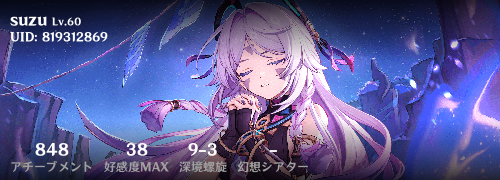
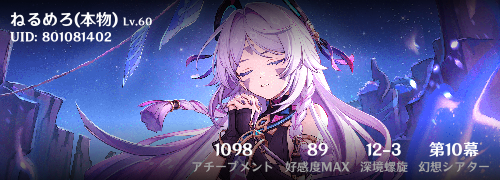
✨ 項目のalign機能と言語追加

diff --git a/api/img.py b/api/img.py
@@ -67,35 +67,57 @@ if __name__ == "__main__":
     im = multiply_image(base_im, overlay_im, 0.8)
     font = "assets/fonts/gi.ttf"
 
+
     # 言語設定ファイルの読み込み
     with open("assets/localization.json", "r", encoding="utf-8") as f:
         localization = json.load(f)
     lang = "ja"
 
-    item_spacing = 10  # 項目間のスペース
-    uid = 819312869
+    uid = 801081402
     user_info = asyncio.run(hoyo_api.fetch_user_data(uid))
 
     user_name = user_info["user_name"]  # ユーザー名
     adv_rank = "Lv." + str(user_info["adventure_rank"])  # 冒険ランク
     achv = str(user_info.get("achievement", "-"))  # アチーブメント数
-    friendship_max = user_info.get("friendship_max", "-")  #  好感度MAXキャラ数
+    max_friendship = user_info.get("friendship_max", "-")  #  好感度MAXキャラ数
     tower = f"{user_info['tower'].get('floor', '-')}-{user_info['tower'].get('level', '-')}" if user_info.get('tower') else "-"  # 螺旋
     theater = localization[lang]['theater_act'].format(act=user_info['theater']['act']) if user_info.get('theater', {}).get('act') else "-"  # 幻想シアター
+
+    align_top = "left"
+    align_bottom = "right"
+    image_width = base_im.size[0]
+
+    # 上部の合計幅を計算
+    name_width = get_text_width(user_name, font, 16)
+    rank_width = get_text_width(adv_rank, font, 10)
+    uid_width = get_text_width(f"UID: {str(uid)}", font, 12)
+    top_total_width = name_width + rank_width + 5  # 名前とランクの間のスペース
+
+    # 上部の開始位置を計算
+    match align_top:
+        case "left":
+            name_start_x = 10
+            uid_start_x = 10
+        case "center":
+            name_start_x = (image_width - top_total_width) // 2
+            uid_start_x = (image_width - uid_width) // 2  # UIDを中央揃え
+        case "right":
+            name_start_x = image_width - top_total_width - 10
+            uid_start_x = image_width - uid_width - 10  # UIDを右揃え
+
     # 名前の挿入
     im = draw_text_image(
         im=im,
-        location=(10, 10),
+        location=(name_start_x, 10),
         text=user_name,
         font=font,
         font_size=16
     )
 
-    name_w = get_text_width(user_name, font, 16)
     # 冒険ランクの挿入
     im = draw_text_image(
         im=im,
-        location=(10 + name_w + 5, 15),
+        location=(name_start_x + name_width + 5, 15),
         text=adv_rank,
         font=font,
         font_size=10
@@ -104,32 +126,49 @@ if __name__ == "__main__":
     # UIDの挿入
     im = draw_text_image(
         im=im,
-        location=(10, 30),
+        location=(uid_start_x, 30),
         text=f"UID: {str(uid)}",
         font=font,
         font_size=12
     )
 
+    item_spacing = 10  # 項目間のスペース
+    bottom_total_width = (
+        get_text_width(localization[lang]["achievements"], font, 12) +
+        get_text_width(localization[lang]["max_friendship"], font, 12) +
+        get_text_width(localization[lang]["spiral_abyss"], font, 12) +
+        get_text_width(localization[lang]["imaginarium_theater"], font, 12) +
+        item_spacing * 3  # 項目間のスペース
+    )
+
+    match align_bottom:
+        case "left":
+            start_bottom_x = 10
+        case "center":
+            start_bottom_x = (image_width - bottom_total_width) // 2
+        case "right":
+            start_bottom_x = image_width - bottom_total_width - 10
+
     # アチーブメント数の挿入
     im = draw_text_image(
         im=im,
-        location=(10, 160),
+        location=(start_bottom_x, 160),
         text=localization[lang]["achievements"],
         font=font,
         font_size=12,
         color="#a0a0a0"
     )
-    achv_text_w = get_text_width(localization[lang]["achievements"], font, 12)
+    achv_text_width = get_text_width(localization[lang]["achievements"], font, 12)
     im = draw_text_image(
         im=im,
-        location=(10 + (achv_text_w - get_text_width(achv, font, 16)) / 2, 140),
+        location=(start_bottom_x + (achv_text_width - get_text_width(achv, font, 16)) / 2, 140),
         text=f"{achv}",
         font=font,
         font_size=16
     )
 
     # 好感度MAXキャラ数の挿入
-    friendship_start_x = 10 + achv_text_w + item_spacing
+    friendship_start_x = start_bottom_x + achv_text_width + item_spacing
     im = draw_text_image(
         im=im,
         location=(friendship_start_x, 160),
@@ -138,17 +177,17 @@ if __name__ == "__main__":
         font_size=12,
         color="#a0a0a0"
     )
-    friendship_max_text_w = get_text_width(localization[lang]["max_friendship"], font, 12)
+    max_friendship_text_width = get_text_width(localization[lang]["max_friendship"], font, 12)
     im = draw_text_image(
         im=im,
-        location=(friendship_start_x + (friendship_max_text_w - get_text_width(str(friendship_max), font, 16)) / 2, 140),
-        text=f"{friendship_max}",
+        location=(friendship_start_x + (max_friendship_text_width - get_text_width(str(max_friendship), font, 16)) / 2, 140),
+        text=f"{max_friendship}",
         font=font,
         font_size=16
     )
 
     # 螺旋の挿入
-    spiral_start_x = friendship_start_x + friendship_max_text_w + item_spacing
+    spiral_start_x = friendship_start_x + max_friendship_text_width + item_spacing
     im = draw_text_image(
         im=im,
         location=(spiral_start_x, 160),
@@ -157,17 +196,17 @@ if __name__ == "__main__":
         font_size=12,
         color="#a0a0a0"
     )
-    tower_text_w = get_text_width(localization[lang]["spiral_abyss"], font, 12)
+    tower_text_width = get_text_width(localization[lang]["spiral_abyss"], font, 12)
     im = draw_text_image(
         im=im,
-        location=(spiral_start_x + (tower_text_w - get_text_width(tower, font, 16)) / 2, 140),
+        location=(spiral_start_x + (tower_text_width - get_text_width(tower, font, 16)) / 2, 140),
         text=f"{tower}",
         font=font,
         font_size=16
     )
 
     # 幻想シアターの挿入
-    theater_start_x = spiral_start_x + tower_text_w + item_spacing
+    theater_start_x = spiral_start_x + tower_text_width + item_spacing
     im = draw_text_image(
         im=im,
         location=(theater_start_x, 160),
@@ -176,10 +215,10 @@ if __name__ == "__main__":
         font_size=12,
         color="#a0a0a0"
     )
-    theater_text_w = get_text_width(localization[lang]["imaginarium_theater"], font, 12)
+    theater_text_width = get_text_width(localization[lang]["imaginarium_theater"], font, 12)
     im = draw_text_image(
         im=im,
-        location=(theater_start_x + (theater_text_w - get_text_width(theater, font, 16)) / 2, 140),
+        location=(theater_start_x + (theater_text_width - get_text_width(theater, font, 16)) / 2, 140),
         text=theater,
         font=font,
         font_size=16

diff --git a/README.md b/README.md
@@ -1,10 +1,10 @@
 # hv-cards
 
-Hoyoverseゲームのプロフィールカード
+HoYoverseゲームのプロフィールカード
 
 ## 説明
 
-Hoyoverseのゲーム、「原神」や「崩壊スターレイル」、「ゼンレスゾーンゼロ」などのプロフィールカードを作成する。<br>
+HoYoverseのゲーム、「原神」や「崩壊スターレイル」、「ゼンレスゾーンゼロ」のプロフィールカードを作成する。<br>
 Githubでの使用を目的としている。
 
 ## 使い方
